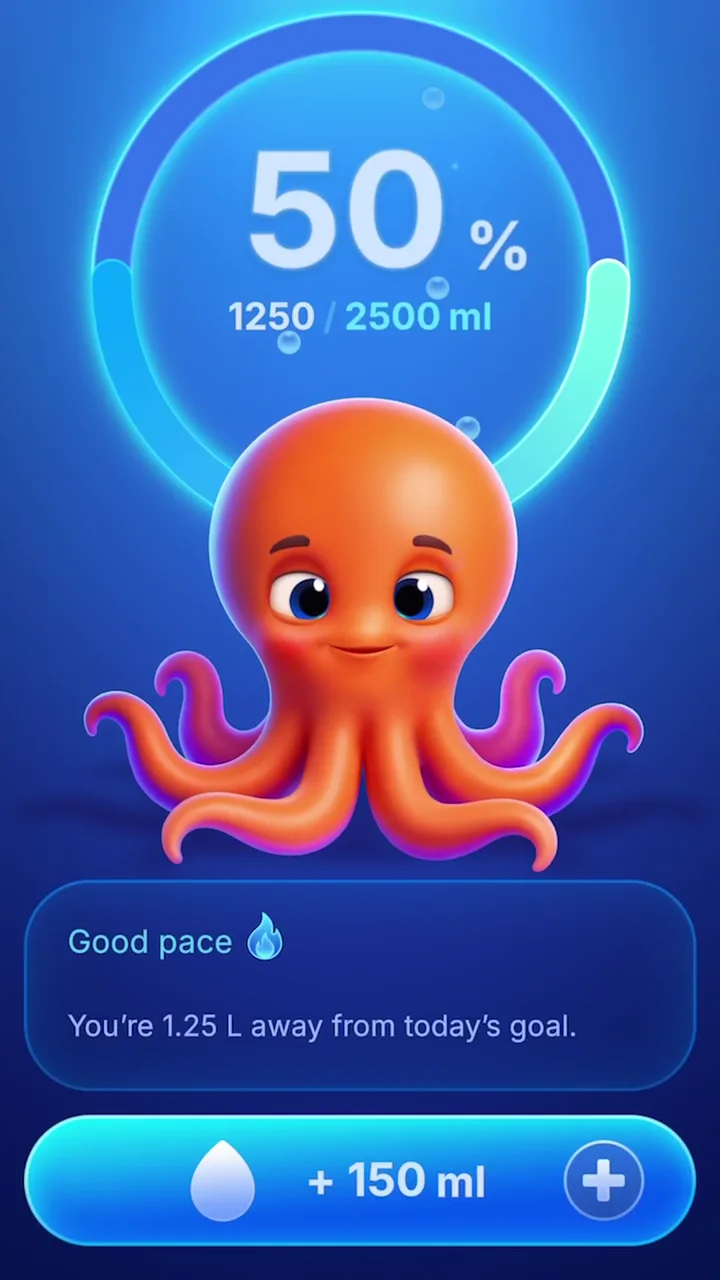
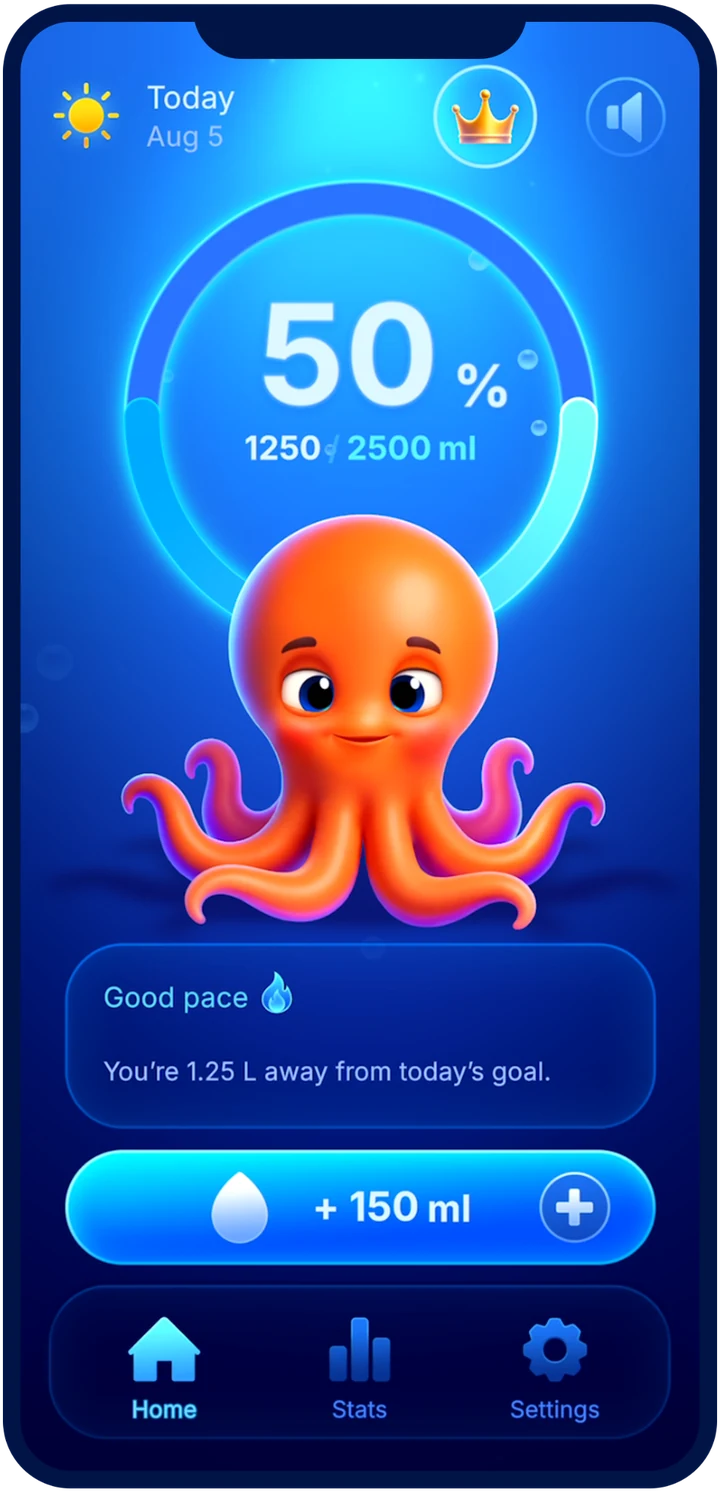
Add files via upload

diff --git a/src/styles/site.css b/src/styles/site.css
@@ -3858,8 +3858,7 @@ footer {
   display: block;
   width: 100%;
   height: auto;
-  aspect-ratio: 9 / 16;
-  object-fit: cover;
+  object-fit: contain;
 }
 
 .home-floating-label {
@@ -4130,36 +4129,21 @@ footer {
 .home-screen-card {
   position: absolute;
   width: min(285px, 57%);
-  overflow: hidden;
-  border: 7px solid #0a2f78;
-  border-radius: 36px;
-  background: #0a2f78;
-  box-shadow: 0 28px 52px -28px rgb(7 48 128 / 72%);
+  overflow: visible;
+  border: 0;
+  border-radius: 0;
+  background: transparent;
+  box-shadow: none;
 }
 
 .home-screen-card img {
   display: block;
   width: 100%;
   height: auto;
-  aspect-ratio: 9 / 16;
-  object-fit: cover;
+  object-fit: contain;
+  filter: drop-shadow(0 24px 22px rgb(7 48 128 / 34%));
 }
 
-.home-screen-card figcaption {
-  position: absolute;
-  right: 14px;
-  bottom: 14px;
-  left: 14px;
-  padding: 10px 12px;
-  border: 1px solid rgb(255 255 255 / 30%);
-  border-radius: 999px;
-  background: rgb(5 42 111 / 76%);
-  color: #fff;
-  font-size: 0.72rem;
-  font-weight: 800;
-  text-align: center;
-  backdrop-filter: blur(8px);
-}
 
 .home-screen-card--back {
   top: 18px;
@@ -4708,17 +4692,8 @@ footer {
 
   .home-screen-card {
     width: min(225px, 58%);
-    border-width: 5px;
-    border-radius: 28px;
   }
 
-  .home-screen-card figcaption {
-    right: 9px;
-    bottom: 9px;
-    left: 9px;
-    padding: 8px;
-    font-size: 0.64rem;
-  }
 
   .home-process-video-card {
     width: min(300px, 78vw);
